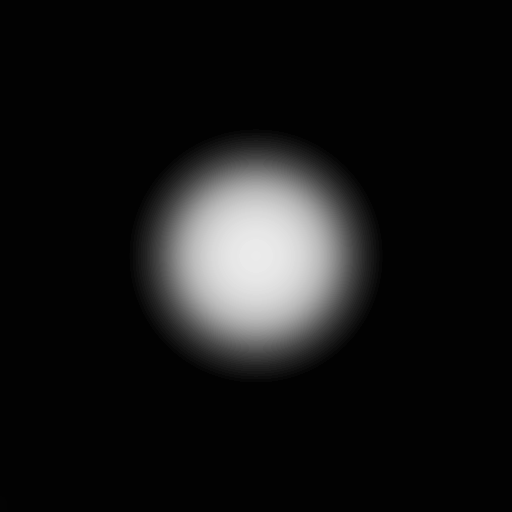
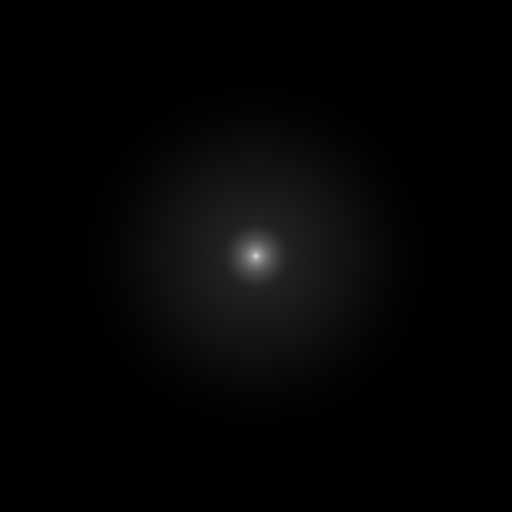
improve particle aesthetics (and blend mode)

Changed region(s): [[0.2812, 0.2812, 0.7188, 0.7188]]

diff --git a/src/pipelines.rs b/src/pipelines.rs
@@ -2,12 +2,12 @@ use crate::gfx_ctx::GraphicsContext;
 use wgpu::util::{BufferInitDescriptor, DeviceExt};
 use wgpu::{
     BindGroup, BindGroupDescriptor, BindGroupEntry, BindGroupLayout, BindGroupLayoutDescriptor,
-    BindGroupLayoutEntry, BindingType, BlendState, Buffer, BufferBindingType, BufferUsages,
-    ColorTargetState, ComputePipeline, ComputePipelineDescriptor, FragmentState, FrontFace,
-    MultisampleState, PipelineLayoutDescriptor, PolygonMode, PrimitiveState, PrimitiveTopology,
-    RenderPipeline, RenderPipelineDescriptor, SamplerBindingType, ShaderModule,
-    ShaderModuleDescriptor, ShaderSource, ShaderStages, TextureSampleType, TextureViewDimension,
-    VertexState,
+    BindGroupLayoutEntry, BindingType, BlendComponent, BlendFactor, BlendOperation, BlendState,
+    Buffer, BufferBindingType, BufferUsages, ColorTargetState, ComputePipeline,
+    ComputePipelineDescriptor, FragmentState, FrontFace, MultisampleState,
+    PipelineLayoutDescriptor, PolygonMode, PrimitiveState, PrimitiveTopology, RenderPipeline,
+    RenderPipelineDescriptor, SamplerBindingType, ShaderModule, ShaderModuleDescriptor,
+    ShaderSource, ShaderStages, TextureSampleType, TextureViewDimension, VertexState,
 };
 
 /*
@@ -287,7 +287,14 @@ impl Render {
                 module: &shaders,
                 entry_point: "main",
                 targets: &[ColorTargetState {
-                    blend: Some(BlendState::ALPHA_BLENDING),
+                    blend: Some(BlendState {
+                        color: BlendComponent {
+                            src_factor: BlendFactor::SrcAlpha,
+                            dst_factor: BlendFactor::DstAlpha,
+                            operation: BlendOperation::Add,
+                        },
+                        alpha: BlendComponent::OVER,
+                    }),
                     ..gc.config.format.into()
                 }],
             }),
